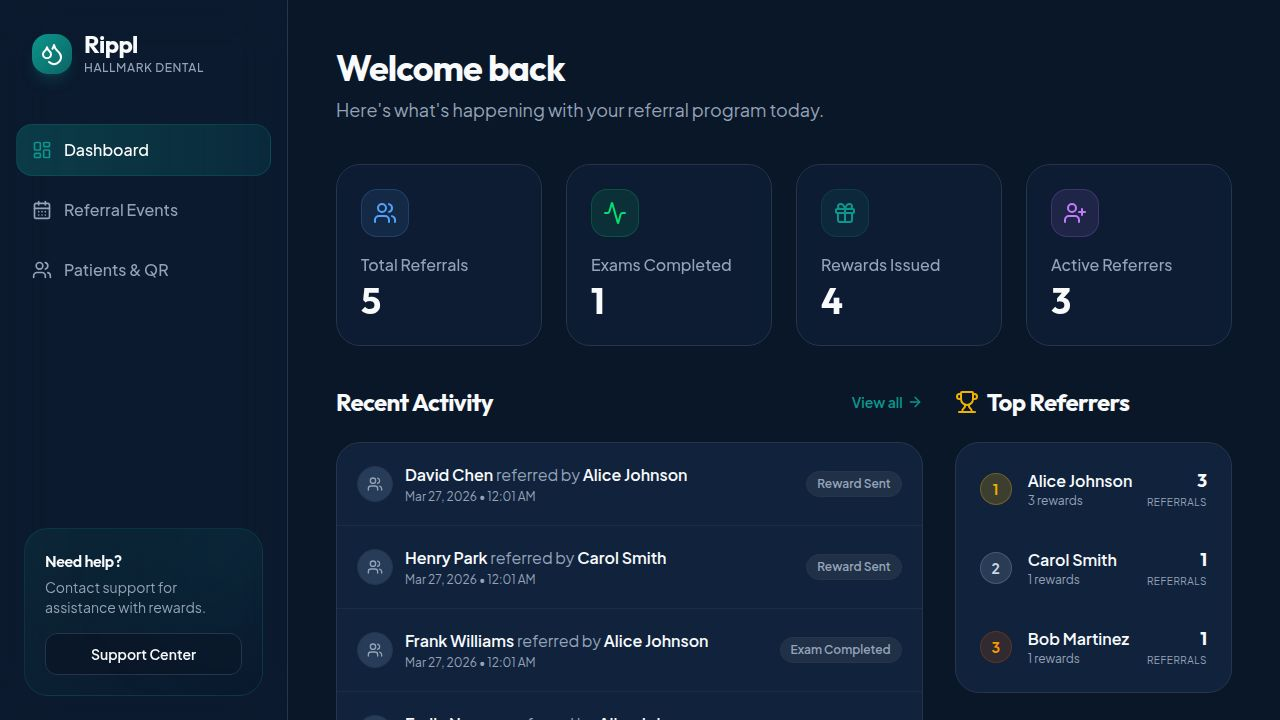
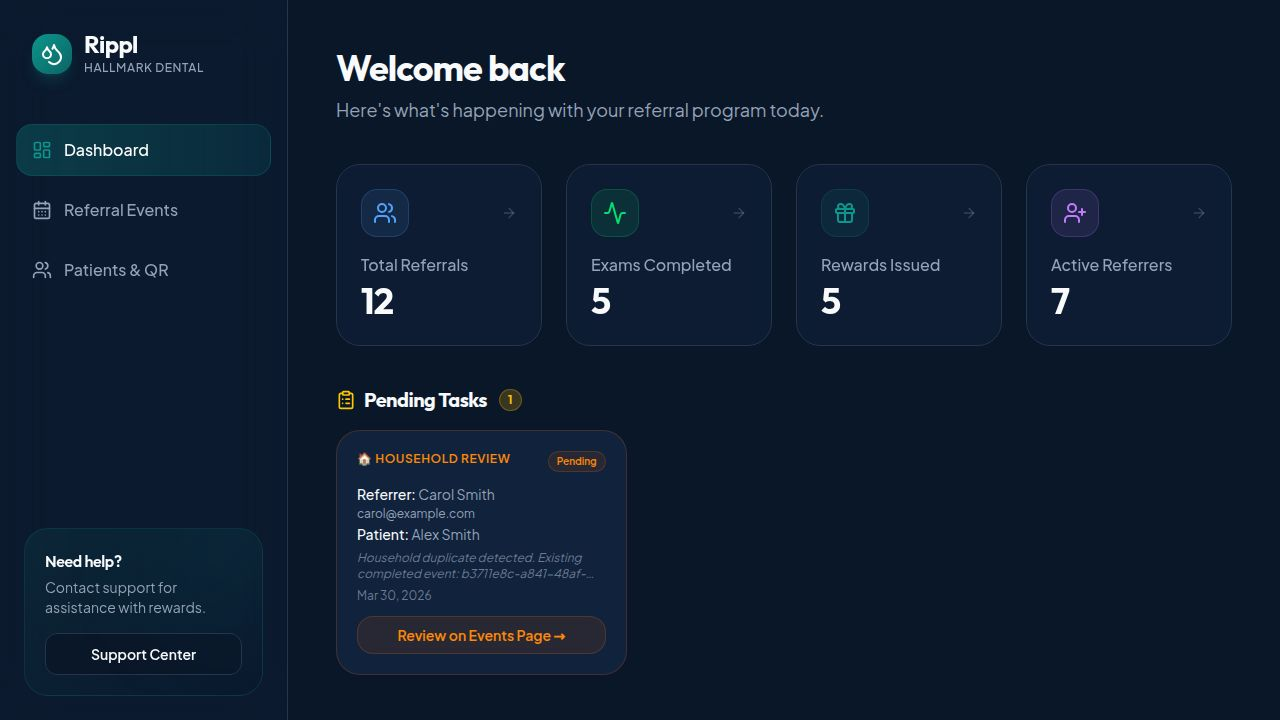
Make dashboard and referral events interactive with new features
Adds clickable stat tiles on the dashboard, replaces filter buttons with status tabs on the Referral Events page, and introduces sortable columns to the Referral Events table.

Replit-Commit-Author: Agent
Replit-Commit-Session-Id: 40d653cb-4d01-45d6-8efc-9d43a1fc50c9
Replit-Commit-Checkpoint-Type: full_checkpoint
Replit-Commit-Event-Id: 3ff98b45-a9d8-437f-a3c4-d1eec2cc84e5
Replit-Commit-Screenshot-Url: https://storage.googleapis.com/screenshot-production-us-central1/189c4123-1536-4176-aaf5-56dd75e71b52/40d653cb-4d01-45d6-8efc-9d43a1fc50c9/5gaMH1C
Replit-Helium-Checkpoint-Created: true

diff --git a/artifacts/rippl/src/pages/events.tsx b/artifacts/rippl/src/pages/events.tsx
@@ -1,13 +1,14 @@
-import React, { useState } from "react";
+import React, { useState, useMemo } from "react";
 import { useGetReferralEvents, useGetReferrers, useCreateReward, useUpdateReferralStatus } from "@workspace/api-client-react";
 import { format } from "date-fns";
-import { Gift, Search, MoreHorizontal, CheckCircle2, ChevronDown, ShieldAlert, ShieldCheck, Plus } from "lucide-react";
+import { Gift, Search, MoreHorizontal, CheckCircle2, ChevronDown, ShieldAlert, ShieldCheck, Plus, ArrowUpDown, ArrowUp, ArrowDown } from "lucide-react";
 import { Modal } from "@/components/ui/modal";
 import { cn } from "@/lib/utils";
 import { useQueryClient, useMutation } from "@tanstack/react-query";
 import { useForm } from "react-hook-form";
 import { zodResolver } from "@hookform/resolvers/zod";
 import { z } from "zod";
+import { useSearch } from "wouter";
 
 const BASE = import.meta.env.BASE_URL.replace(/\/$/, "");
 
@@ -83,17 +84,36 @@ function useOverrideHousehold() {
   });
 }
 
-type TabId = "all" | "flagged";
+type TabId = "all" | "lead" | "booked" | "exam-completed" | "reward-sent" | "flagged";
+type SortField = "date" | "new_patient_name" | "referrer_name" | "status" | "reward_type";
+type SortDir = "asc" | "desc";
+
+const STATUS_ORDER: Record<string, number> = {
+  "Lead": 0, "Booked": 1, "Exam Completed": 2, "Reward Sent": 3,
+};
+
+function SortIcon({ field, sortField, sortDir }: { field: SortField; sortField: SortField; sortDir: SortDir }) {
+  if (sortField !== field) return <ArrowUpDown className="w-3.5 h-3.5 opacity-40" />;
+  return sortDir === "asc"
+    ? <ArrowUp className="w-3.5 h-3.5 text-primary" />
+    : <ArrowDown className="w-3.5 h-3.5 text-primary" />;
+}
 
 export default function Events() {
+  const search = useSearch();
+  const params = new URLSearchParams(search);
+  const initialTab = (params.get("tab") as TabId | null) ?? "all";
+
   const { data: rawEvents, isLoading } = useGetReferralEvents();
   const events = rawEvents as ReferralEvent[] | undefined;
   const { data: referrers } = useGetReferrers();
   const queryClient = useQueryClient();
   const [searchTerm, setSearchTerm] = useState("");
-  const [activeTab, setActiveTab] = useState<TabId>("all");
+  const [activeTab, setActiveTab] = useState<TabId>(initialTab);
   const [selectedEventId, setSelectedEventId] = useState<string | null>(null);
   const [isLogModalOpen, setIsLogModalOpen] = useState(false);
+  const [sortField, setSortField] = useState<SortField>("date");
+  const [sortDir, setSortDir] = useState<SortDir>("desc");
 
   const { register: logRegister, handleSubmit: logHandleSubmit, reset: logReset, formState: { errors: logErrors } } = useForm<LogReferralValues>({
     resolver: zodResolver(logReferralSchema),
@@ -122,15 +142,63 @@ export default function Events() {
 
   const overrideHousehold = useOverrideHousehold();
 
-  const flaggedCount = events?.filter(e => e.household_duplicate).length ?? 0;
+  const handleSort = (field: SortField) => {
+    if (sortField === field) {
+      setSortDir(d => d === "asc" ? "desc" : "asc");
+    } else {
+      setSortField(field);
+      setSortDir(field === "date" ? "desc" : "asc");
+    }
+  };
 
-  const filteredEvents = (events ?? []).filter(e => {
-    const matchesSearch =
-      e.new_patient_name.toLowerCase().includes(searchTerm.toLowerCase()) ||
-      (e.referrer_name && e.referrer_name.toLowerCase().includes(searchTerm.toLowerCase()));
-    const matchesTab = activeTab === "flagged" ? !!e.household_duplicate : true;
-    return matchesSearch && matchesTab;
-  });
+  // Tab counts
+  const counts = useMemo(() => ({
+    all:            (events ?? []).length,
+    lead:           (events ?? []).filter(e => e.status === "Lead").length,
+    booked:         (events ?? []).filter(e => e.status === "Booked").length,
+    "exam-completed": (events ?? []).filter(e => e.status === "Exam Completed").length,
+    "reward-sent":  (events ?? []).filter(e => e.status === "Reward Sent").length,
+    flagged:        (events ?? []).filter(e => e.household_duplicate).length,
+  }), [events]);
+
+  // Filter by tab + search
+  const filtered = useMemo(() => {
+    return (events ?? []).filter(e => {
+      const matchesSearch =
+        e.new_patient_name.toLowerCase().includes(searchTerm.toLowerCase()) ||
+        (e.referrer_name && e.referrer_name.toLowerCase().includes(searchTerm.toLowerCase()));
+      const matchesTab =
+        activeTab === "all"            ? true :
+        activeTab === "lead"           ? e.status === "Lead" :
+        activeTab === "booked"         ? e.status === "Booked" :
+        activeTab === "exam-completed" ? e.status === "Exam Completed" :
+        activeTab === "reward-sent"    ? e.status === "Reward Sent" :
+        activeTab === "flagged"        ? !!e.household_duplicate :
+        true;
+      return matchesSearch && matchesTab;
+    });
+  }, [events, searchTerm, activeTab]);
+
+  // Sort
+  const sortedEvents = useMemo(() => {
+    const dir = sortDir === "asc" ? 1 : -1;
+    return [...filtered].sort((a, b) => {
+      switch (sortField) {
+        case "date":
+          return dir * (new Date(a.created_at).getTime() - new Date(b.created_at).getTime());
+        case "new_patient_name":
+          return dir * a.new_patient_name.localeCompare(b.new_patient_name);
+        case "referrer_name":
+          return dir * (a.referrer_name ?? "").localeCompare(b.referrer_name ?? "");
+        case "status":
+          return dir * ((STATUS_ORDER[a.status] ?? 99) - (STATUS_ORDER[b.status] ?? 99));
+        case "reward_type":
+          return dir * (a.reward_type ?? "").localeCompare(b.reward_type ?? "");
+        default:
+          return 0;
+      }
+    });
+  }, [filtered, sortField, sortDir]);
 
   const handleReward = (rewardType: string) => {
     if (!selectedEventId) return;
@@ -156,19 +224,37 @@ export default function Events() {
   const handleOverrideAndReward = (event: ReferralEvent) => {
     overrideHousehold.mutate(event.id, {
       onSuccess: (updatedEvent) => {
-        // If status is Exam Completed, open reward modal immediately
         if (updatedEvent.status === "Exam Completed") {
           setSelectedEventId(event.id);
         }
-        // Otherwise just refresh — admin advances status then sends reward
       }
     });
   };
 
-  const tabs: { id: TabId; label: string; count?: number }[] = [
-    { id: "all", label: "All Events" },
-    { id: "flagged", label: "Flagged", count: flaggedCount },
+  const tabs: { id: TabId; label: string }[] = [
+    { id: "all",            label: "All" },
+    { id: "lead",           label: "Leads" },
+    { id: "booked",         label: "Booked" },
+    { id: "exam-completed", label: "Exam Completed" },
+    { id: "reward-sent",    label: "Reward Sent" },
+    { id: "flagged",        label: "Flagged" },
   ];
+
+  const thBtn = (field: SortField, label: string, align: "left" | "right" = "left") => (
+    <th className={`px-6 py-4 font-semibold ${align === "right" ? "text-right" : ""}`}>
+      <button
+        onClick={() => handleSort(field)}
+        className={cn(
+          "flex items-center gap-1.5 text-xs uppercase tracking-wider font-semibold transition-colors",
+          align === "right" && "ml-auto",
+          sortField === field ? "text-primary" : "text-muted-foreground hover:text-foreground"
+        )}
+      >
+        {label}
+        <SortIcon field={field} sortField={sortField} sortDir={sortDir} />
+      </button>
+    </th>
+  );
 
   return (
     <div className="space-y-8">
@@ -200,27 +286,38 @@ export default function Events() {
       </div>
 
       {/* Tab bar */}
-      <div className="flex items-center gap-1 border-b border-border">
-        {tabs.map(tab => (
-          <button
-            key={tab.id}
-            onClick={() => setActiveTab(tab.id)}
-            className={cn(
-              "relative px-4 py-2.5 text-sm font-semibold transition-colors flex items-center gap-2",
-              activeTab === tab.id
-                ? "text-foreground after:absolute after:bottom-0 after:left-0 after:right-0 after:h-0.5 after:bg-primary after:rounded-t"
-                : "text-muted-foreground hover:text-foreground"
-            )}
-          >
-            {tab.id === "flagged" && <ShieldAlert className="w-4 h-4 text-amber-400" />}
-            {tab.label}
-            {tab.count !== undefined && tab.count > 0 && (
-              <span className="px-1.5 py-0.5 rounded-full text-[10px] font-bold bg-amber-500/20 text-amber-400 border border-amber-500/30">
-                {tab.count}
-              </span>
-            )}
-          </button>
-        ))}
+      <div className="flex items-center gap-0 border-b border-border overflow-x-auto">
+        {tabs.map(tab => {
+          const count = counts[tab.id as keyof typeof counts] ?? 0;
+          const isActive = activeTab === tab.id;
+          return (
+            <button
+              key={tab.id}
+              onClick={() => setActiveTab(tab.id)}
+              className={cn(
+                "relative px-4 py-2.5 text-sm font-semibold transition-colors flex items-center gap-1.5 whitespace-nowrap shrink-0",
+                isActive
+                  ? "text-foreground after:absolute after:bottom-0 after:left-0 after:right-0 after:h-0.5 after:bg-primary after:rounded-t"
+                  : "text-muted-foreground hover:text-foreground"
+              )}
+            >
+              {tab.id === "flagged" && <ShieldAlert className="w-3.5 h-3.5 text-amber-400" />}
+              {tab.label}
+              {count > 0 && (
+                <span className={cn(
+                  "px-1.5 py-0.5 rounded-full text-[10px] font-bold border",
+                  tab.id === "flagged"
+                    ? "bg-amber-500/20 text-amber-400 border-amber-500/30"
+                    : isActive
+                    ? "bg-primary/20 text-primary border-primary/30"
+                    : "bg-muted text-muted-foreground border-border"
+                )}>
+                  {count}
+                </span>
+              )}
+            </button>
+          );
+        })}
       </div>
 
       {activeTab === "flagged" && (
@@ -237,13 +334,13 @@ export default function Events() {
         <div className="overflow-x-auto">
           <table className="w-full text-left border-collapse">
             <thead>
-              <tr className="bg-muted/30 text-muted-foreground text-sm uppercase tracking-wider">
-                <th className="px-6 py-4 font-semibold">New Patient</th>
-                <th className="px-6 py-4 font-semibold">Referrer</th>
-                <th className="px-6 py-4 font-semibold">Source</th>
-                <th className="px-6 py-4 font-semibold">Date</th>
-                <th className="px-6 py-4 font-semibold">Status</th>
-                <th className="px-6 py-4 font-semibold text-right">Action</th>
+              <tr className="bg-muted/30 text-muted-foreground text-xs uppercase tracking-wider">
+                {thBtn("new_patient_name", "New Patient")}
+                {thBtn("referrer_name", "Referrer")}
+                <th className="px-6 py-4 font-semibold text-xs uppercase tracking-wider text-muted-foreground">Source</th>
+                {thBtn("date", "Date")}
+                {thBtn("status", "Status")}
+                {thBtn("reward_type", "Action", "right")}
               </tr>
             </thead>
             <tbody className="divide-y divide-border">
@@ -258,7 +355,7 @@ export default function Events() {
                     <td className="px-6 py-5"></td>
                   </tr>
                 ))
-              ) : filteredEvents.length === 0 ? (
+              ) : sortedEvents.length === 0 ? (
                 <tr>
                   <td colSpan={6} className="px-6 py-12 text-center text-muted-foreground">
                     {activeTab === "flagged"
@@ -267,7 +364,7 @@ export default function Events() {
                   </td>
                 </tr>
               ) : (
-                filteredEvents.map((event) => (
+                sortedEvents.map((event) => (
                   <tr
                     key={event.id}
                     className={cn(

diff --git a/artifacts/rippl/src/pages/dashboard.tsx b/artifacts/rippl/src/pages/dashboard.tsx
@@ -66,10 +66,10 @@ export default function Dashboard() {
   }
 
   const statCards = [
-    { label: "Total Referrals", value: stats.total_referrals, icon: Users, color: "text-blue-400", bg: "bg-blue-400/10", border: "border-blue-400/20" },
-    { label: "Exams Completed", value: stats.exams_completed, icon: Activity, color: "text-green-400", bg: "bg-green-400/10", border: "border-green-400/20" },
-    { label: "Rewards Issued", value: stats.rewards_issued, icon: Gift, color: "text-primary", bg: "bg-primary/10", border: "border-primary/20" },
-    { label: "Active Referrers", value: stats.active_referrers, icon: UserPlus, color: "text-purple-400", bg: "bg-purple-400/10", border: "border-purple-400/20" },
+    { label: "Total Referrals",  value: stats.total_referrals,  icon: Users,    color: "text-blue-400",   bg: "bg-blue-400/10",   border: "border-blue-400/20",   href: "/events" },
+    { label: "Exams Completed",  value: stats.exams_completed,  icon: Activity, color: "text-green-400",  bg: "bg-green-400/10",  border: "border-green-400/20",  href: "/events?tab=exam-completed" },
+    { label: "Rewards Issued",   value: stats.rewards_issued,   icon: Gift,     color: "text-primary",    bg: "bg-primary/10",    border: "border-primary/20",    href: "/events?tab=reward-sent" },
+    { label: "Active Referrers", value: stats.active_referrers, icon: UserPlus, color: "text-purple-400", bg: "bg-purple-400/10", border: "border-purple-400/20", href: "/patients" },
   ];
 
   return (
@@ -79,21 +79,23 @@ export default function Dashboard() {
         <p className="text-muted-foreground mt-2 text-base md:text-lg">Here's what's happening with your referral program today.</p>
       </header>
 
-      {/* Stats Grid */}
+      {/* Stats Grid — each tile navigates to the relevant filtered view */}
       <div className="grid grid-cols-1 sm:grid-cols-2 lg:grid-cols-4 gap-6">
         {statCards.map((stat, i) => (
-          <div 
-            key={i} 
-            className="bg-card/50 backdrop-blur-sm rounded-2xl p-6 border border-border hover:border-muted-foreground/30 transition-all duration-300 hover:-translate-y-1 hover:shadow-xl hover:shadow-black/20"
+          <Link
+            key={i}
+            href={stat.href}
+            className="group bg-card/50 backdrop-blur-sm rounded-2xl p-6 border border-border hover:border-primary/40 transition-all duration-300 hover:-translate-y-1 hover:shadow-xl hover:shadow-black/20 cursor-pointer block"
           >
             <div className="flex items-center justify-between mb-4">
-              <div className={`w-12 h-12 rounded-xl flex items-center justify-center ${stat.bg} ${stat.border} border`}>
+              <div className={`w-12 h-12 rounded-xl flex items-center justify-center ${stat.bg} ${stat.border} border transition-all group-hover:scale-110`}>
                 <stat.icon className={`w-6 h-6 ${stat.color}`} />
               </div>
+              <ArrowRight className="w-4 h-4 text-muted-foreground/30 group-hover:text-muted-foreground/70 transition-colors" />
             </div>
             <p className="text-muted-foreground font-medium mb-1">{stat.label}</p>
             <h3 className="text-4xl font-display font-bold text-foreground">{stat.value}</h3>
-          </div>
+          </Link>
         ))}
       </div>
 
